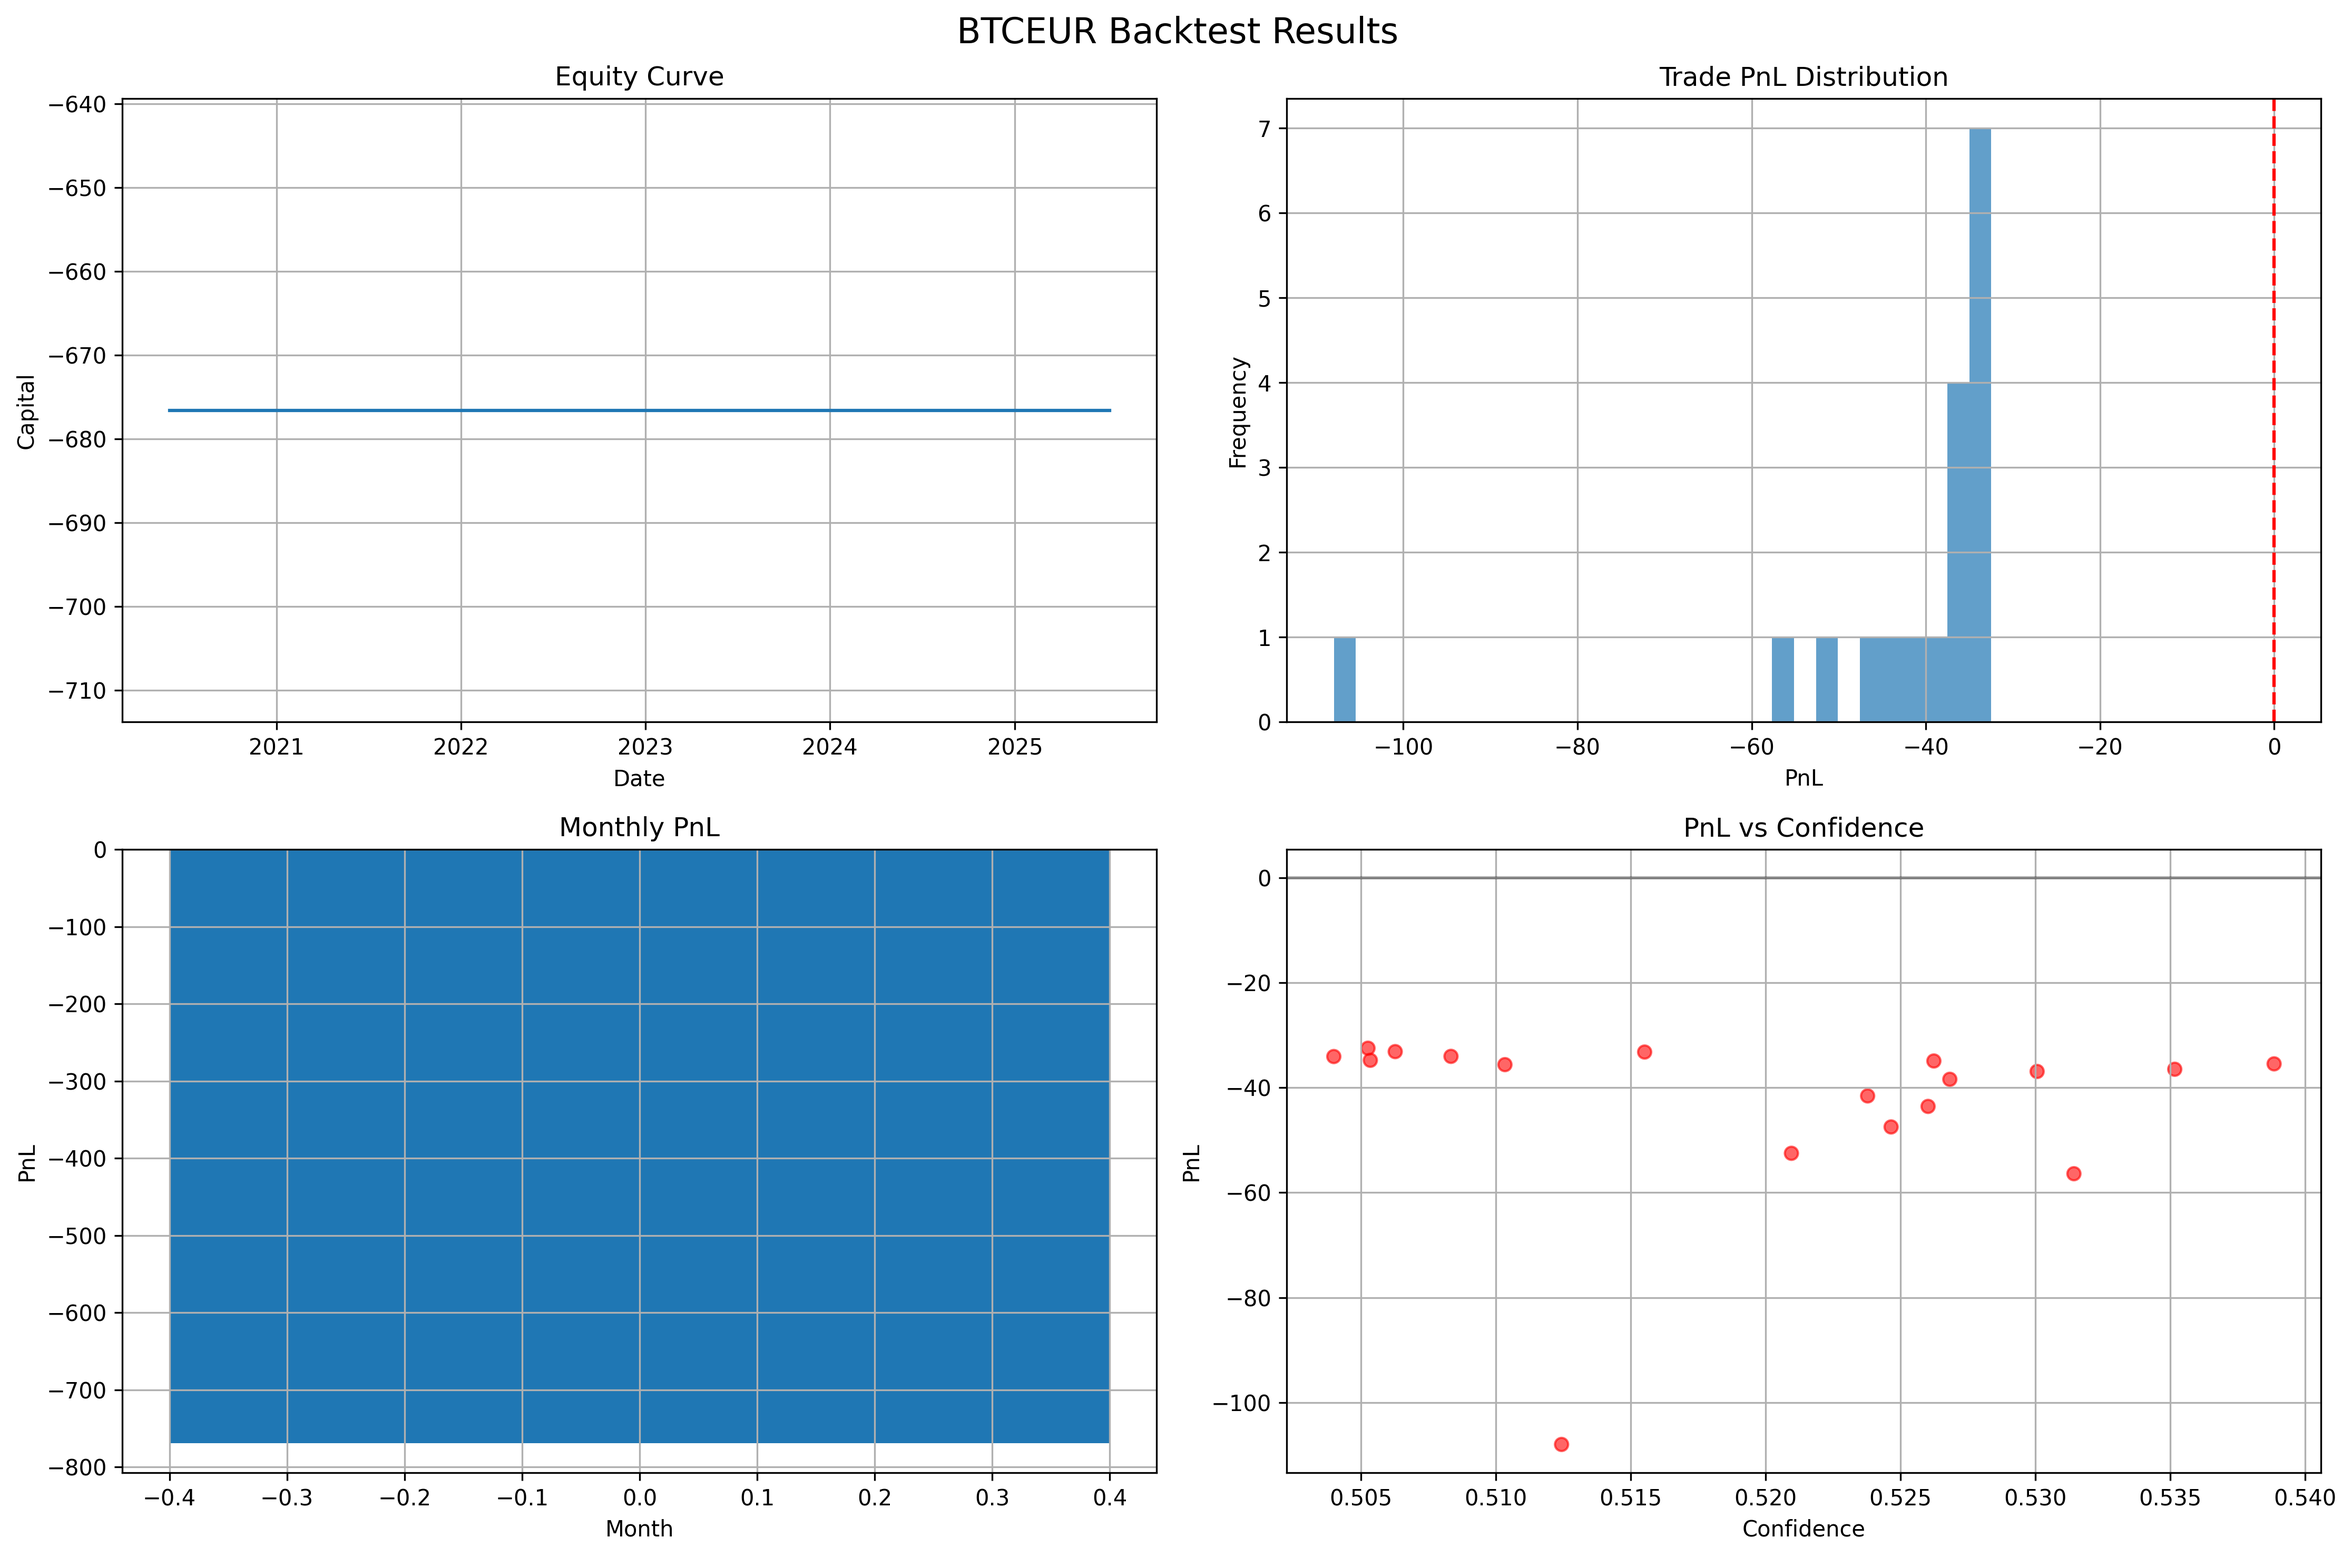
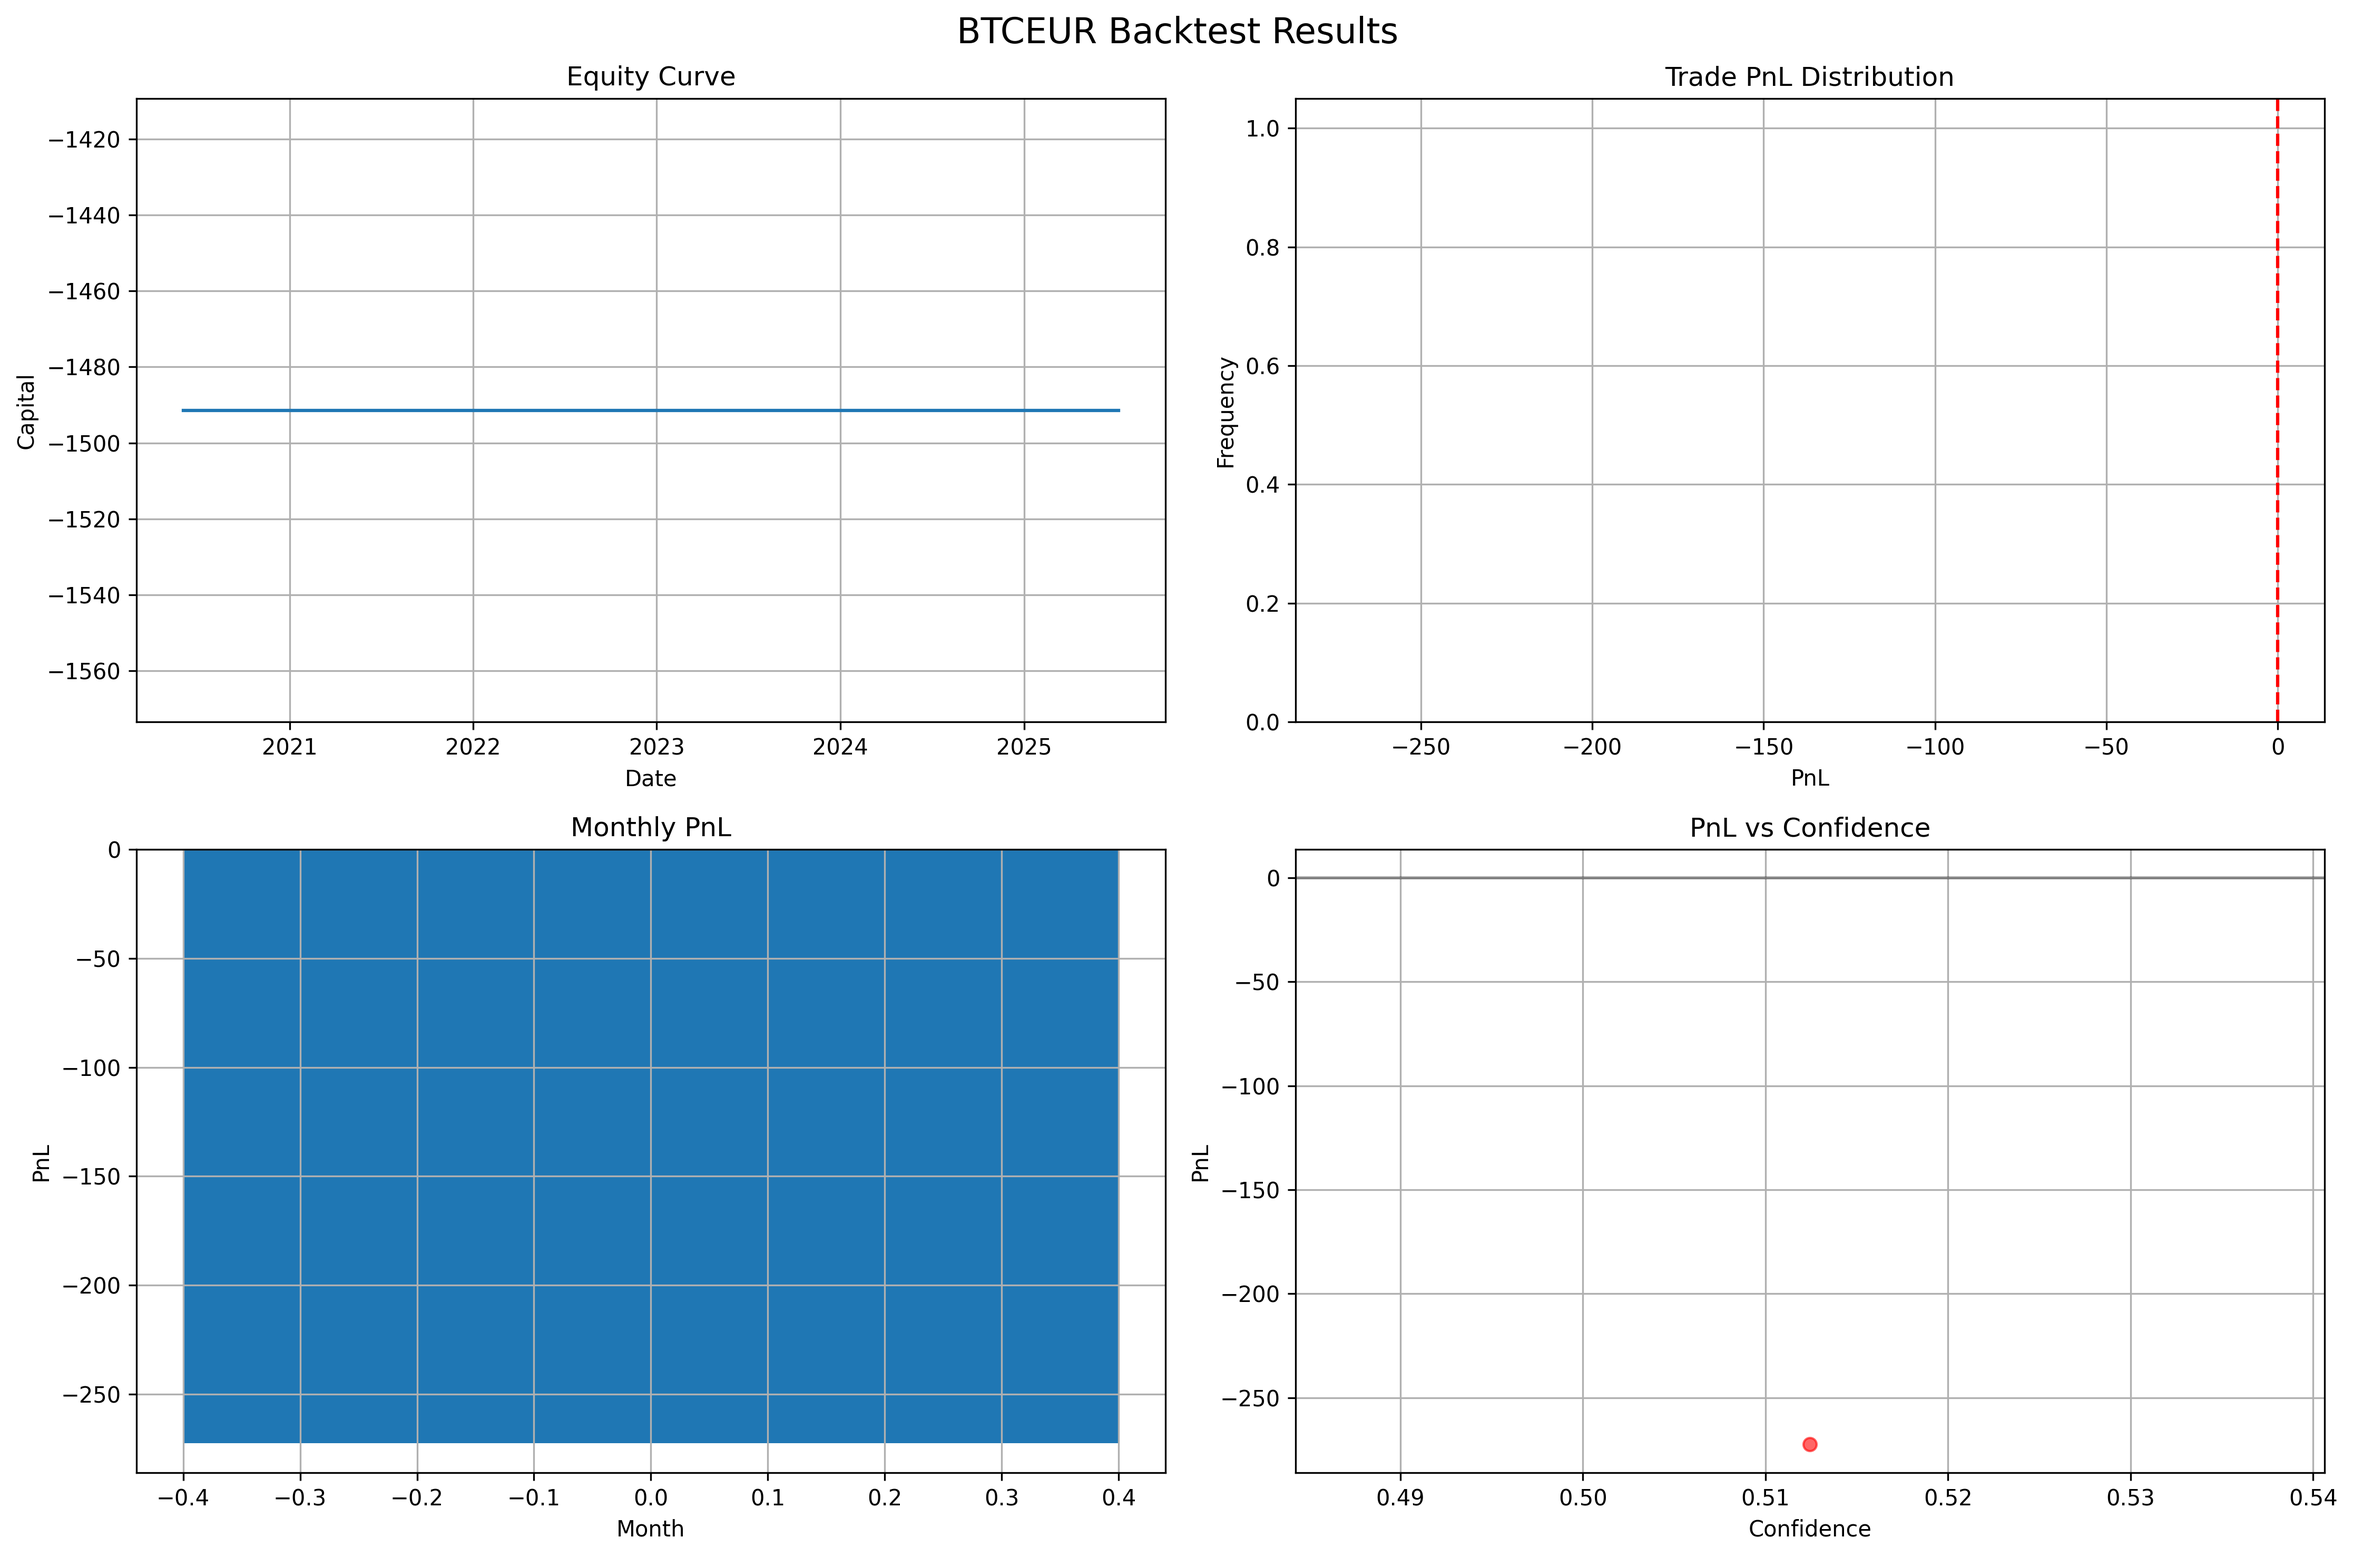
Final ultra-aggressive neutral trading implementation - trades on ANY deviation from 0.5

diff --git a/scripts/backtest_models.py b/scripts/backtest_models.py
@@ -49,14 +49,14 @@ class BacktestConfig:
         self.slippage = 0.001  # 0.1% slippage
         self.stop_loss_pct = 0.03  # 3% stop loss
         
-        # Signal thresholds - ULTRA-aggressive for maximum trades (even on weak predictions)
-        self.buy_threshold = 0.5001   # Extremely close to neutral - trade on ANY bias
-        self.sell_threshold = 0.4999  # Extremely close to neutral - trade on ANY bias
-        self.lstm_delta_threshold = 0.00001  # Ultra-sensitive - trade on tiny movements
+        # Signal thresholds - ULTRA-aggressive for maximum trades (trade on ANY deviation from neutral)
+        self.buy_threshold = 0.5   # EXACTLY neutral - any bias triggers trade
+        self.sell_threshold = 0.5  # EXACTLY neutral - any bias triggers trade
+        self.lstm_delta_threshold = 0.0000001  # NANO-sensitive - trade on noise
         
         # Neutral trading mode - trade even when models are uncertain/neutral
         self.neutral_trading_enabled = True
-        self.neutral_zone_size = 0.01  # Consider 0.49-0.51 as neutral and tradeable
+        self.neutral_zone_size = 0.02  # Consider 0.48-0.52 as neutral and tradeable
         
         # Adaptive thresholds for when trades are scarce
         self.min_trades_per_month = 20
@@ -586,17 +586,17 @@ class ModelBacktester:
         
         # NEW: NEUTRAL TRADING MODE - Trade on weak/neutral predictions
         # When predictions are very close to 0.5 (neutral), treat this as a trading opportunity
-        neutral_zone = 0.01  # Consider 0.49-0.51 as "neutral"
+        neutral_zone = 0.02  # Consider 0.48-0.52 as "neutral" (wider zone)
         is_neutral_prediction = abs(xgb_prob - 0.5) <= neutral_zone
         
         if is_neutral_prediction:
-            # For neutral predictions, use any tiny bias as a signal
-            if xgb_prob >= 0.5:  # Even tiny bias towards buy
+            # For neutral predictions, use any tiny bias as a signal, or create one if none exists
+            if xgb_prob >= 0.5:  # Any bias towards buy (including exactly 0.5)
                 stats['BUY'] += 1
                 stats.setdefault('neutral_buy_signals', 0)
                 stats['neutral_buy_signals'] += 1
                 return 'BUY'
-            else:  # Even tiny bias towards sell
+            else:  # Any bias towards sell
                 stats['SELL'] += 1
                 stats.setdefault('neutral_sell_signals', 0)
                 stats['neutral_sell_signals'] += 1
@@ -923,9 +923,11 @@ class ModelBacktester:
                 )
                 
                 # Enhanced debug signal generation (print more frequently for debugging)
-                if i % 500 == 0 and self.config.verbose:  # More frequent updates
-                    print(f"      Debug at {current_time}: XGB={xgb_prob:.3f}, LSTM={lstm_delta:.6f}, Signal={signal}")
+                if i % 100 == 0 and self.config.verbose:  # Much more frequent updates for debugging
+                    print(f"      Debug at {current_time}: XGB={xgb_prob:.4f}, LSTM={lstm_delta:.8f}, Signal={signal}")
                     print(f"        Trades: {trades_generated}/{target_trades_this_window} (deficit={trade_deficit:.1f}, aggr={aggressiveness_multiplier:.2f})")
+                    print(f"        Neutral zone check: {abs(xgb_prob - 0.5):.4f} <= 0.02 = {abs(xgb_prob - 0.5) <= 0.02}")
+                    print(f"        Position limits: {len(positions)}/{self.config.max_positions}, hour_trades: {trades_this_hour}/{self.config.max_trades_per_hour}")
                     
                 if signal in ['BUY', 'SELL']:
                     # Calculate stop loss

diff --git a/optimized_variables.py b/optimized_variables.py
@@ -82,9 +82,9 @@ class ParameterSpace:
         elif optimization_mode == 'high_frequency':
             # ULTRA-aggressive parameters for 5+ trades per day target - trade on weak/neutral predictions
             self.param_bounds = {
-                'buy_threshold': (0.5001, 0.502),        # EXTREMELY close to neutral - trade on ANY bias
-                'sell_threshold': (0.498, 0.4999),       # EXTREMELY close to neutral - trade on ANY bias
-                'lstm_delta_threshold': (0.000001, 0.0001), # ULTRA-sensitive - trade on tiniest movements
+                'buy_threshold': (0.5, 0.5001),        # EXACTLY neutral to infinitesimally above
+                'sell_threshold': (0.4999, 0.5),       # EXACTLY neutral to infinitesimally below
+                'lstm_delta_threshold': (0.0000001, 0.00001), # NANO-sensitive - trade on noise
                 'risk_per_trade': (0.003, 0.015),        # Lower risk to enable more trades
                 'stop_loss_pct': (0.005, 0.02),          # Tighter stop loss for quick exits
                 'take_profit_pct': (0.008, 0.03),        # Smaller profit targets for quick wins
